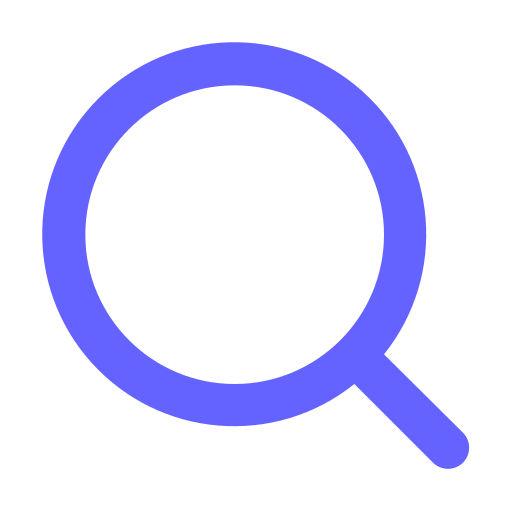
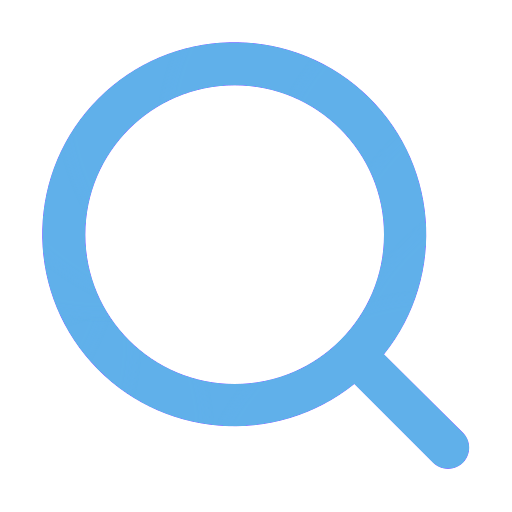
header UI 및 클래스명 수정

Changed region(s): [[0.0625, 0.0625, 0.9375, 0.9375]]

diff --git a/src/main/webapp/resources/css/header.css b/src/main/webapp/resources/css/header.css
@@ -10,31 +10,9 @@ header {
 	font-family: sans-serif;
 }
 
-header section {
-	margin: 0px 300px;
-}
-
 /* 공통코드 - 글자스타일 */
 .header_every_a_font {
 	font-size: 12px;
-}
-
-#header_right_menu {
-	margin-top: 7px;
-}
-
-.header_outer_ul {
-	list-style-type: none;
-	display: flex;
-	margin-left: 70px;
-	font-size: 11px;
-}
-
-.header_outer_ul a {
-	margin: 5px;
-	padding-top: 10px;
-	color: black;
-	text-decoration: none;
 }
 
 
@@ -58,96 +36,98 @@ header section {
 	display: block;
 }
 
-.header_enter_bubble {
-	display: none;
-	position: absolute;
-	background-color: white;
-	font-size: 8pt;
-	min-width: 160px;
-	
-	padding: 15px 20px;
-	border: 1px solid #ddd;
-	box-shadow: 0 4px 5px rgba(0, 0, 0, 0.3);
-	
-	list-style-type: none;
-}
-
-.header_dropdown_list:hover .enter_bubble {
-	display: block;
+.header_dropdown_list {
+	display: inline-block;
 }
 
 
 /* 최상단 메뉴 */
-#header_top_bar {
+.header_top_bar {
 	width: 100%;
 	height: 30px;
-	background-color: #F2F2F2;
 	display: flex;
 	justify-content: space-around;
 	padding: 2px;
 	white-space: nowrap;
+	background-color: #f1f8fe;
 }
 
-#header_top_bar section {
-	width: 1500px;
+.header_top_section {
+	width: 60%;
 	display: flex;
-	justify-content: space-between;
+	justify-content: end;
 }
 
-.header_dropdown_list {
-	/* position: relative; */
-	display: inline-block;
+.header_menu {
+	margin: 3px 0px;
 }
 
-.header_entry_img {
-	margin-top: 2px;
-	width: 10px;
-	height: 10px;
+.header_outer_ul {
+	list-style-type: none;
+	display: flex;
+	margin-left: 70px;
+	font-size: 11px;
+}
+
+.header_outer_ul a {
+	margin: 5px;
+	padding-top: 10px;
+	color: black;
+	text-decoration: none;
 }
 
 
 /* 중간 메뉴 */
-.header_top_section {
-	height: 110px;
+.header_middle_section {
 	display: flex;
-	justify-content: flex-start;
-	margin: 10px;
-	position: relative;
+	justify-content: center;
+	align-items: center;
 }
 
-@media (min-width: 1300px) {
+/* @media (min-width: 1300px) {
 	.header_top_section {
 		justify-content: center;
 	}
+} */
+
+.header_content {
+	width: 60%;
+	display: flex;
+	align-items: center;
 }
 
 
-/* 중간 메뉴 - 왼쪽 헤더(카테고리) */
-#header_left {
+/* 카테고리 */
+.header_category {
 	width: 110px;
-	height: 110px;
+	height: 100%;
+	margin: 0px 10px;
 }
 
-#header_left .header_enter {
+.header_category .header_enter {
 	/* min-width: 160px; */
 	padding: 15px 10px;
 }
 
-#header_left .header_enter li {
+.header_category .header_enter li {
 	margin: 10px 0px;
 }
 
-#header_left .header_enter a {
+.header_category .header_enter a {
 	margin: 10px;
 	color: black;
 	text-decoration: none;
 }
 
-#header_left a:hover {
+.header_category a:hover {
 	color:#0073e9;
 	text-decoration: underline;
 }
 
+.header_category_img {
+	width: 110px;
+	height: 100%;
+}
 
 .header_left_category_icon {
 	width: 20px;
@@ -155,20 +135,12 @@ header section {
 	margin-right: 5px;
 }
 
-.header_category_img {
-	width: 110px;
-	height: 110px;
-}
-
-
-/* 중간 메뉴 - 오른쪽 헤더 */
-.header_top_title_search {
-	display: flex;
-	padding-top: 10px;
-}
-
 
 /* 로고 */
+.header_title {
+	margin: 0px 10px;
+}
+
 .header_logo {
 	width: 174px;
 	height: 41px;
@@ -180,10 +152,12 @@ header section {
 .header_search_product {
 	display: flex;
 	align-items: center;
-	border: 2px solid #4285f4;
+	justify-content: space-between;
+	border: 2px solid #60b0ea;
 	background-color: white;
-	width: 480px;
+	width: 430px;
 	height: 40px;
+	margin-right: 40px;
 }
 
 .header_text_search {
@@ -191,6 +165,7 @@ header section {
 	width: 270px;
 	border: 0px;
 	outline: none;
+	margin: 10px;
 }
 
 .header_search_img {
@@ -200,19 +175,19 @@ header section {
 	margin: 4px;
 }
 
-.header_select_menu {
-	width: 150px;
-	border: 0px;
-	outline: none;
-}
 
-
-/* 오른쪽 메뉴(마이쿠팡, 장바구니) */
+/* 마이메뉴 */
 .header_my_menu {
 	display: flex;
+	margin-right: 10px;
 }
 
-.header_my_menu_inner a {
+.header_my_cart {
+	display: flex;
+	margin-left: 10px;
+}
+
+.header_my_a {
 	display: flex;
 	flex-direction: column;
 	margin: 0 15px;
@@ -220,7 +195,7 @@ header section {
 	text-decoration: none;
 }
 
-.header_right_menu_icon {
+.header_my_icon {
 	width: 40px;
 }
 
